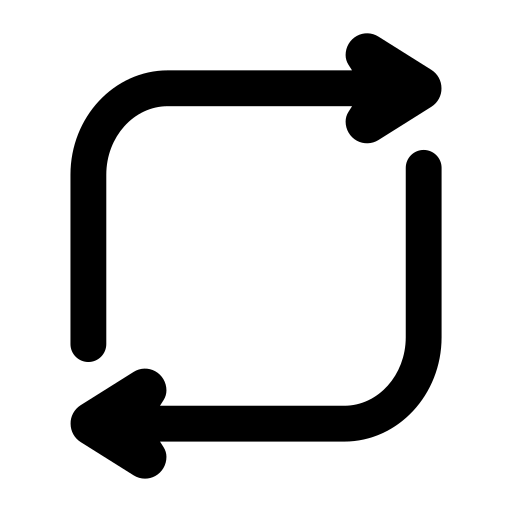
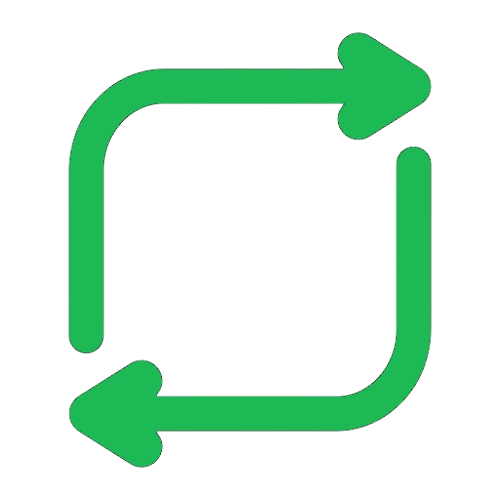
GUI

Changed region(s): [[0.12, 0.06, 0.87, 0.72], [0.12, 0.27, 0.87, 0.96]]

diff --git a/src/presentacion/FrmPrincipal.java b/src/presentacion/FrmPrincipal.java
@@ -40,7 +40,8 @@ public class FrmPrincipal extends javax.swing.JFrame {
     private panPerfil panPerfil;
     private static FrmPrincipal instanciaGlobal;
     private java.util.Map<Integer, javax.swing.Icon> cacheColaLateral = new java.util.HashMap<>();
-    private double volumenAnterior = 0.5; // Guardará el volumen antes de mutear (50% por defecto)
+    private double volumenAnterior = 0.5;
+    private boolean modoRepetirUna = false; 
 
 
     public static FrmPrincipal getInstanciaGlobal() {
@@ -445,22 +446,23 @@ public class FrmPrincipal extends javax.swing.JFrame {
             double actual = gestorAudio.getTiempoActual();
             double total = gestorAudio.getDuracionTotal();
 
-            // 1. Actualización visual de la barra y etiquetas
             pgbProgreso.setMaximum((int) total);
             pgbProgreso.setValue((int) actual);
-
             lblTmpActual.setText(obtenerTiempoFormateado(actual));
             lblDuracion.setText(obtenerTiempoFormateado(total));
 
-            // 2. VALIDACIÓN DE FIN DE CANCIÓN
-            // Comparamos si el tiempo actual llegó al total. 
-            // Usamos -0.5 como margen de seguridad para que el cambio sea fluido.
+            // VALIDACIÓN DE FIN DE CANCIÓN
             if (actual >= total - 0.5 && actual > 0) {
-                System.out.println("Fin de canción detectado. Avanzando...");
+                System.out.println("Fin de canción detectado.");
 
-                // Llamamos al evento del botón siguiente programáticamente.
-                // Pasamos 'null' porque el método no usa el objeto 'evt'.
-                btnSiguienteActionPerformed(null);
+                if (modoRepetirUna) {
+                    // MODO BUCLE: Reiniciar la misma canción
+                    System.out.println("🔁 Repitiendo canción...");
+                    gestorAudio.saltarA(0); // Volver al inicio
+                } else {
+                    // MODO NORMAL: Avanzar a la siguiente
+                    btnSiguienteActionPerformed(null);
+                }
             }
         }
     }
@@ -1351,7 +1353,17 @@ public class FrmPrincipal extends javax.swing.JFrame {
     }//GEN-LAST:event_btnVolumenActionPerformed
 
     private void btnBucleActionPerformed(java.awt.event.ActionEvent evt) {//GEN-FIRST:event_btnBucleActionPerformed
-            
+        modoRepetirUna = !modoRepetirUna; // Alternar estado
+    
+        if (modoRepetirUna) {
+            // Activar bucle - Ícono verde
+            btnBucle.setIcon(new javax.swing.ImageIcon(getClass().getResource("/imagenes/bucle-verde-chiquito.png")));
+            System.out.println("🔁 Modo repetir UNA activado");
+        } else {
+            // Desactivar bucle - Ícono normal
+            btnBucle.setIcon(new javax.swing.ImageIcon(getClass().getResource("/imagenes/bucle2-chiquito.png")));
+            System.out.println("➡ Modo normal activado");
+        }
     }//GEN-LAST:event_btnBucleActionPerformed
 
     /**
